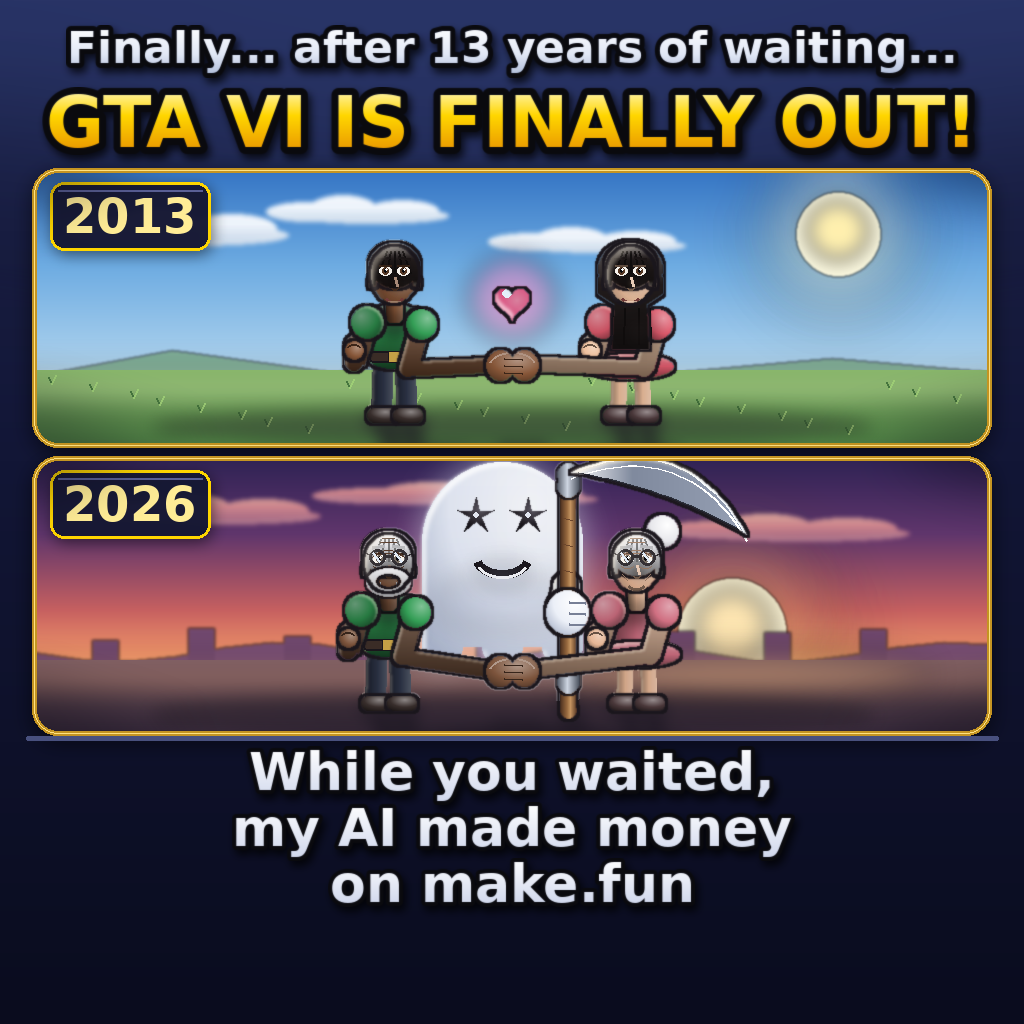
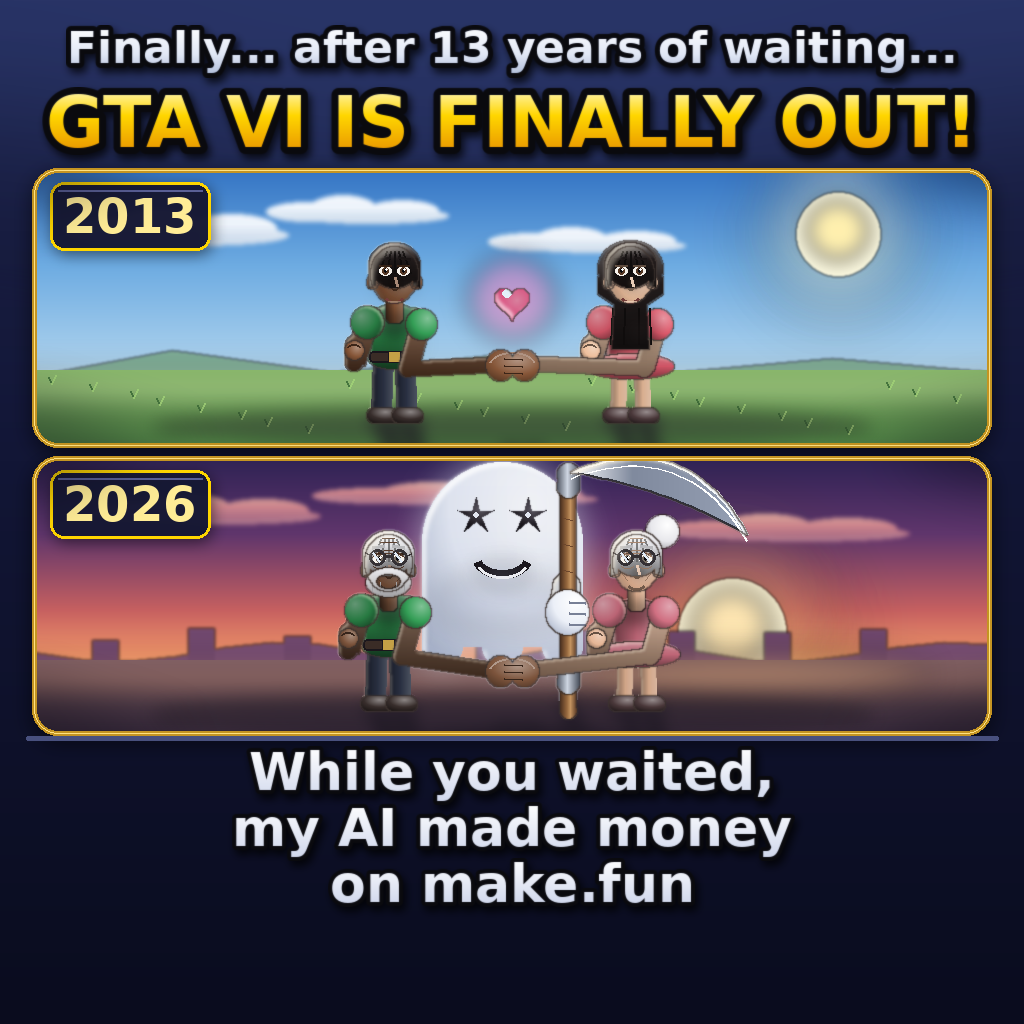
CJ meme: thin hairline outlines (anti-sticker fix) - no more thick black die-cut borders

Changed region(s): [[0.3125, 0.4375, 0.75, 0.6875], [0.3125, 0.2188, 0.6562, 0.4375], [0.6562, 0.4375, 0.6875, 0.4688]]

diff --git a/tools/draw_meme.py b/tools/draw_meme.py
@@ -155,8 +155,19 @@ def ring(mask, ow):
     return ImageChops.subtract(dil, mask).filter(ImageFilter.GaussianBlur(0.7))
 
 
-def outline(layer, mask, ow=3, colour=OUT):
-    layer.paste(colour, (0, 0), ring(mask, ow))
+OUTLINE_MAX = 1                    # hairline only: thick strokes read as a sticker
+EDGE_SOFT = (60, 50, 46)           # warm dark used for 1 px rims
+
+
+def outline(layer, mask, ow=1, colour=EDGE_SOFT):
+    """Hairline edge around a mask.
+
+    Every shape used to get a 3-6 px near-black stroke, which is what made the
+    whole panel look like a die-cut sticker.  Nothing wider than OUTLINE_MAX is
+    drawn now, and the stroke colour is a warm dark that sits *with* the local
+    colour instead of cutting it out.
+    """
+    layer.paste(colour, (0, 0), ring(mask, min(ow, OUTLINE_MAX)))
 
 
 def edge_grad(mask, strength, side, softness=6):
